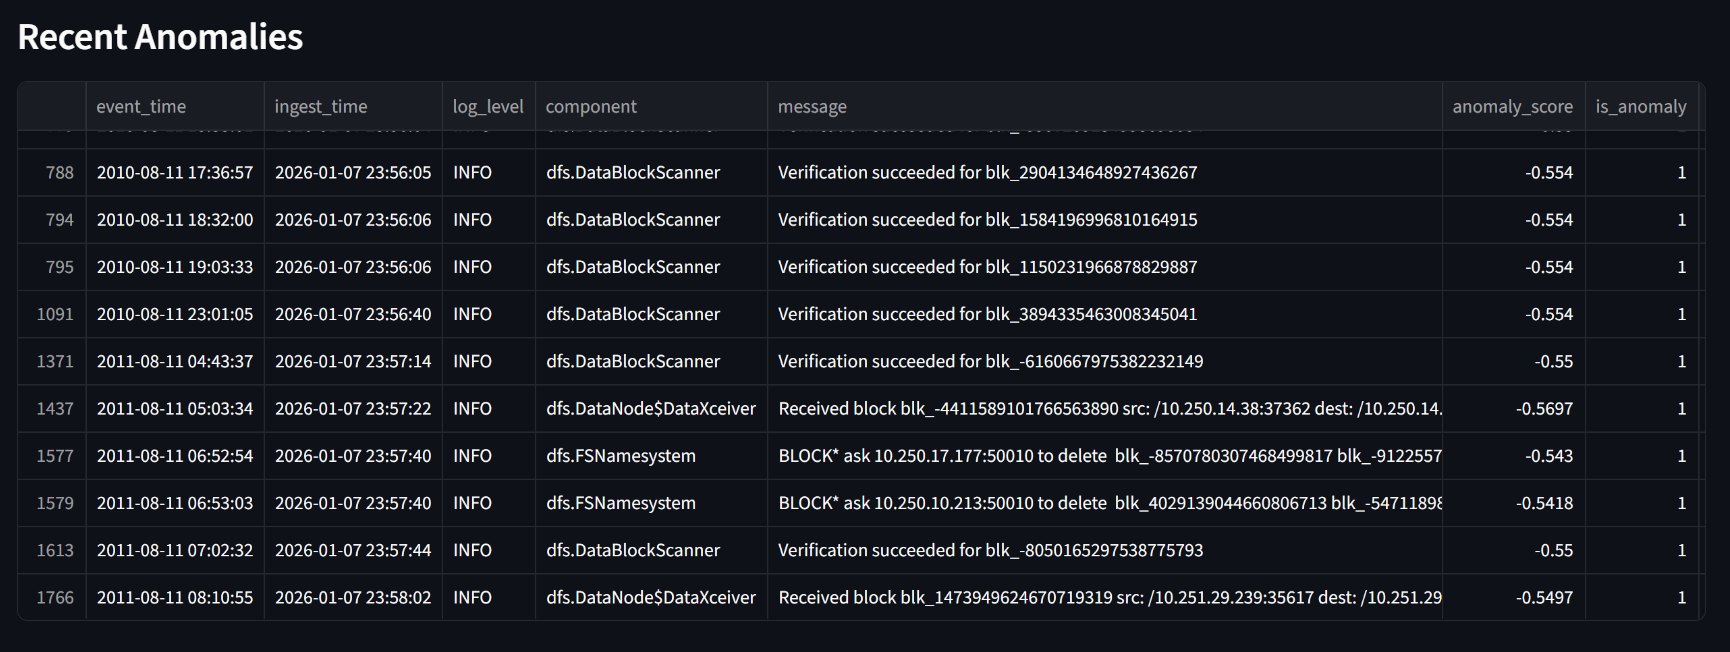
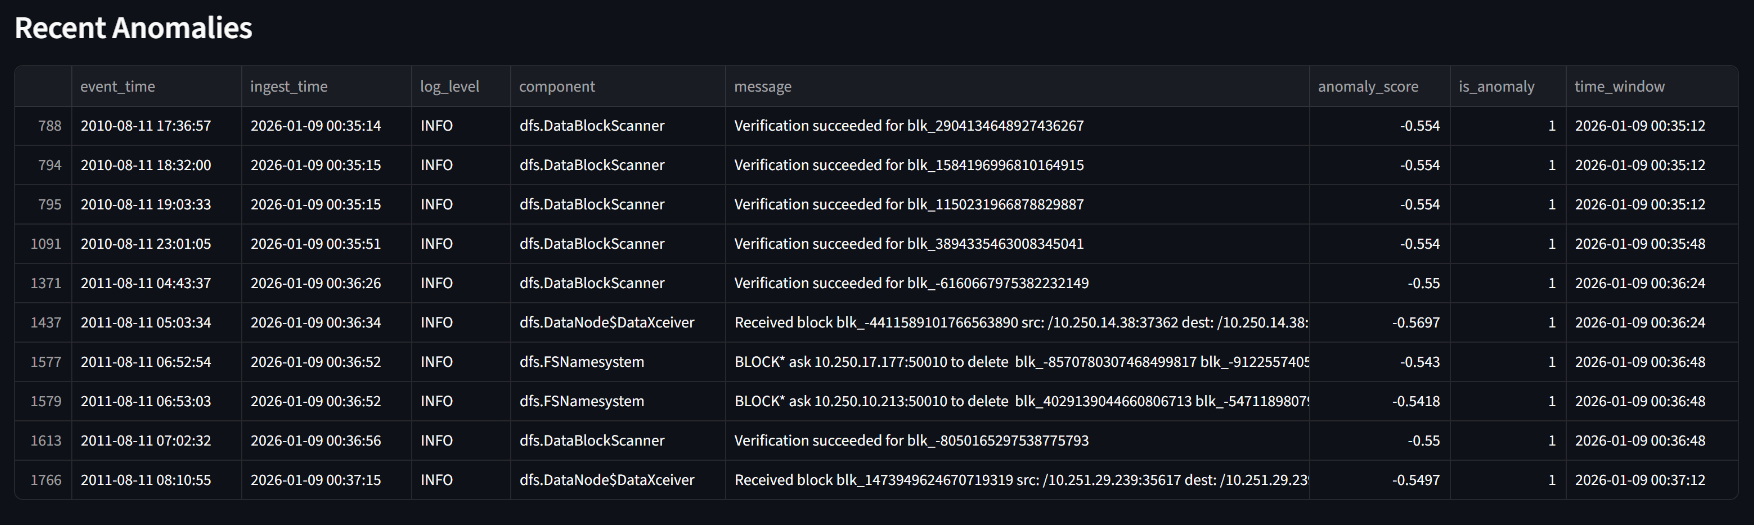
Dockerize anomaly detection system

diff --git a/src/dashboard.py b/src/dashboard.py
@@ -64,25 +64,6 @@ st.set_page_config(layout="wide")
 
 st.title("🚨 Log Anomaly Monitoring Dashboard")
 
-if not all_alerts.empty:
-    latest = all_alerts.iloc[0]
-
-    if latest["alert_type"] == "IMMEDIATE":
-        st.error(
-            f"🚨 IMMEDIATE ALERT\n\n"
-            f"Level: {latest['log_level']}\n"
-            f"Component: {latest['component']}\n"
-            f"Message: {latest['message']}"
-        )
-    else:
-        st.warning(
-            f"⚠ BEHAVIORAL ALERT\n\n"
-            f"Anomaly Rate Spike Detected\n"
-            f"Rate: {latest['anomaly_rate']:.2%}"
-        )
-else:
-    st.success("✅ System operating normally")
-
 st.subheader("📄 Monitoring Data")
 
 DATA_FILE = "monitor_results.csv"
@@ -109,6 +90,37 @@ else:
 
 
 st.write("Total logs processed:", len(df))
+
+if not all_alerts.empty:
+    latest = all_alerts.iloc[0]
+
+    if latest["alert_type"] == "IMMEDIATE":
+        st.error(
+            f"🚨 IMMEDIATE ALERT\n\n"
+            f"Level: {latest['log_level']}\n"
+            f"Component: {latest['component']}\n"
+            f"Message: {latest['message']}"
+        )
+    else:
+        st.warning(
+            f"⚠ BEHAVIORAL ALERT\n\n"
+            f"Anomaly Rate Spike Detected\n"
+            f"Rate: {latest['anomaly_rate']:.2%}"
+        )
+else:
+    st.success("✅ System operating normally")
+
+st.subheader("🚨 All Alerts")
+
+if not all_alerts.empty:
+    st.dataframe(
+        all_alerts.sort_values("event_time", ascending=False),
+        use_container_width=True
+    )
+else:
+    st.info("No alerts to display.")
+
+
 
 # -------- Anomaly Rate Over Time --------
 agg = (
